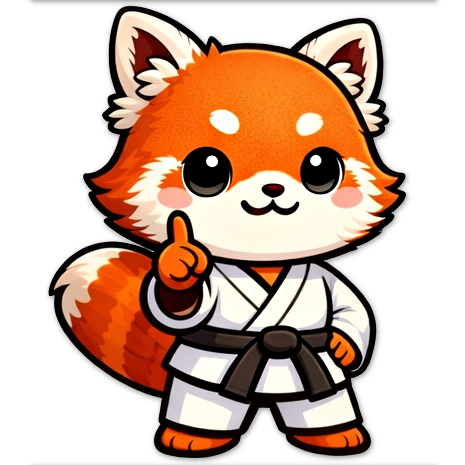
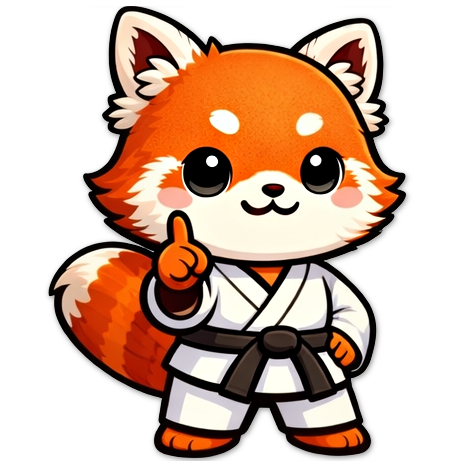
Add accessible titles to dialog components for improved screen reader support

Changed region(s): [[0.0602, 0.0, 0.9333, 0.0301]]

diff --git a/src/app/page.tsx b/src/app/page.tsx
@@ -552,6 +552,7 @@ export default function Home() {
 
       <Dialog open={isLogModalOpen} onOpenChange={setIsLogModalOpen}>
         <DialogContent className="sm:max-w-5xl max-h-[90vh] overflow-y-auto">
+          <DialogTitle className="sr-only">Log practice session</DialogTitle>
           {isLogModalOpen && (
             <SessionLogForm
               key="quick-log-instance"
@@ -566,6 +567,7 @@ export default function Home() {
 
       <Dialog open={isAuthDialogOpen} onOpenChange={setIsAuthDialogOpen}>
         <DialogContent className="sm:max-w-md p-0 overflow-hidden">
+          <DialogTitle className="sr-only">Sign in to MatMetrics</DialogTitle>
           <SignInScreen onContinueAsGuest={() => setIsAuthDialogOpen(false)} />
         </DialogContent>
       </Dialog>
